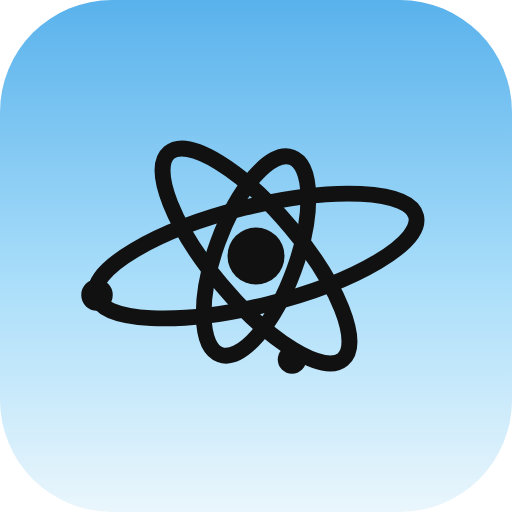
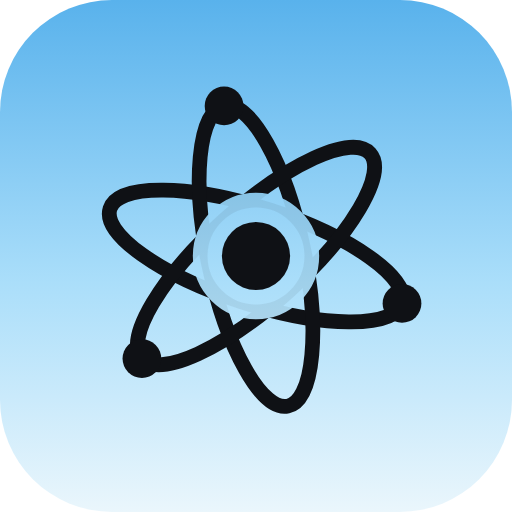
Round 6: white tag-patterned boards, new atom mark with blue breathing glow, sleeker Universal mark, folder design in Brainly, pinboard reminders, centered Timely headers
Claude-Session: https://claude.ai/code/session_01VyUsYKRK97fG4vrZNmknrH

Changed region(s): [[0.1562, 0.1562, 0.8438, 0.8125]]

diff --git a/styles.css b/styles.css
@@ -2245,3 +2245,164 @@ body.board-live, body.board-live * { cursor: grabbing !important; }
   .month-cell .span-bar { height: 5px; font-size: 0; padding: 0; }
   .week-cell .cell-n { font-size: 13px; }
 }
+
+/* ---------- Floating buttons, round 6 ---------- */
+/* Assistant: a frosted orb with a soft blue glow that breathes */
+.assistant-token {
+  background: radial-gradient(circle at 34% 28%, #ffffff 0%, #f5f8fd 55%, #e8eef8 100%);
+  box-shadow: inset 0 1px 1px #fff, inset 0 -8px 14px rgba(40, 80, 160, 0.08), 0 0 0 1px rgba(90, 140, 230, 0.28), 0 10px 24px -12px rgba(40, 80, 180, 0.55);
+}
+.assistant-token::before {
+  inset: -6px; background: radial-gradient(circle, rgba(70, 140, 255, 0.55) 0%, rgba(70, 140, 255, 0.18) 52%, transparent 72%);
+  filter: blur(4px); opacity: 0.75; animation: orbBreathe 4.2s ease-in-out infinite;
+}
+.assistant-token::after { display: none; }
+.assistant-token:hover::before { opacity: 1; }
+.assistant-token:hover { box-shadow: inset 0 1px 1px #fff, inset 0 -8px 14px rgba(40, 80, 160, 0.08), 0 0 0 1px rgba(90, 140, 230, 0.45), 0 14px 30px -12px rgba(40, 90, 220, 0.7); }
+.assistant-token[aria-expanded="true"] { background: radial-gradient(circle at 34% 28%, #2b3550 0%, #121828 60%, #090c14 100%); color: #fff; box-shadow: inset 0 1px 1px rgba(255, 255, 255, 0.15), 0 0 0 1px rgba(110, 160, 255, 0.5), 0 12px 28px -10px rgba(40, 90, 220, 0.8); }
+.assistant-token[aria-expanded="true"]::before { opacity: 1; animation-duration: 2.6s; }
+.assistant-tray.listening ~ .assistant-token::before { animation-duration: 1.4s; opacity: 1; }
+@keyframes orbBreathe { 0%, 100% { transform: scale(0.92); opacity: 0.55; } 50% { transform: scale(1.12); opacity: 0.95; } }
+.assistant-token svg { width: 28px; height: 28px; }
+@media (prefers-reduced-motion: reduce) { .assistant-token::before { animation: none; } }
+/* Universal Board: the swoosh draws a soft light, the star twinkles on hover */
+.universal-trigger svg { width: 25px; height: 25px; filter: drop-shadow(0 0 3px rgba(150, 175, 255, 0.65)); }
+.universal-trigger .uni-star { transform-origin: 19.6px 4.2px; transform-box: view-box; transition: transform 0.4s cubic-bezier(.34, 1.56, .64, 1); }
+.universal-trigger:hover .uni-star, .universal.open .uni-star { transform: scale(1.35) rotate(45deg); }
+.universal-trigger .uni-swoosh { transition: transform 0.4s var(--ease); transform-origin: 12px 12px; transform-box: view-box; }
+.universal-trigger:hover .uni-swoosh { transform: translate(0.6px, -0.6px); }
+.galaxy-arms { animation: none !important; }
+/* The brand atom turns gently on hover */
+.atom-mark { transform-origin: 50% 50%; }
+.assistant-token { background: transparent; }
+.assistant-token::after {
+  display: block; content: ""; position: absolute; inset: 0; border-radius: 50%; z-index: -1;
+  background: radial-gradient(circle at 34% 28%, #ffffff 0%, #f6f9fd 55%, #e9eff8 100%);
+  box-shadow: inset 0 1px 1px #fff, inset 0 -8px 14px rgba(40, 80, 160, 0.08);
+}
+.assistant-token[aria-expanded="true"] { background: transparent; }
+.assistant-token[aria-expanded="true"]::after { background: radial-gradient(circle at 34% 28%, #2b3550 0%, #121828 60%, #090c14 100%); box-shadow: inset 0 1px 1px rgba(255, 255, 255, 0.15); }
+
+/* ---------- Boardly, round 6: white boards, the pattern carries the category colour ---------- */
+.boardly .board-canvas {
+  background-color: #ffffff; border: 1.5px solid color-mix(in srgb, var(--tc) 45%, #e6e8ec);
+  background-image:
+    radial-gradient(circle, color-mix(in srgb, var(--tc) 78%, white) 1.5px, transparent 2px),
+    radial-gradient(90% 75% at 0% 0%, color-mix(in srgb, var(--tc) 12%, transparent), transparent 62%),
+    radial-gradient(70% 60% at 100% 100%, color-mix(in srgb, var(--tc) 8%, transparent), transparent 65%);
+  background-size: 26px 26px, 100% 100%, 100% 100%;
+  background-position: 13px 13px, 0 0, 0 0;
+  box-shadow: 0 1px 0 rgba(255, 255, 255, 0.8) inset, 0 18px 40px -30px color-mix(in srgb, var(--tc) 70%, black);
+}
+.boardly .tile { border: 1px solid color-mix(in srgb, var(--ink) 12%, transparent); box-shadow: 0 1px 2px rgba(17, 17, 17, 0.06), 0 10px 22px -12px color-mix(in srgb, var(--tc) 55%, rgba(17, 17, 17, 0.5)); }
+.boardly .canvas-empty, .boardly .sel-hint { color: var(--muted); }
+.boardly .vtools { background: rgba(255, 255, 255, 0.96); box-shadow: 0 0 0 1px var(--line), 0 18px 36px -14px rgba(17, 17, 17, 0.35); }
+.boardly .vt-head { color: var(--faint); }
+.boardly .vt-label { color: var(--ink-2); }
+.boardly .vtool:hover, .boardly .vtool:focus-visible { background: var(--well); }
+/* Tags: the active one wears its board's colour */
+.boardly-tabs .tab.active { background: color-mix(in srgb, var(--tab-color) 16%, white); color: var(--ink); box-shadow: inset 0 0 0 1.5px var(--tab-color); }
+.boardly-tabs .tab.active .tab-dot { box-shadow: 0 0 0 3px color-mix(in srgb, var(--tab-color) 30%, transparent); }
+.boardly-tabs .tab.active .tab-x { color: var(--muted); }
+
+/* ---------- Timely, round 6: the date title is centred over its calendar ---------- */
+.cal-head { display: grid; grid-template-columns: 1fr auto 1fr; align-items: center; gap: 12px; }
+.cal-head .cal-title { grid-column: 2; grid-row: 1; flex-direction: column; align-items: center; gap: 0; text-align: center; }
+.cal-head .cal-title h2 { font-size: 20px; }
+.cal-head .cal-sub { font-size: 12px; }
+.cal-head .cal-nav { display: contents; }
+.cal-head .cal-arrow[aria-label="Previous"] { grid-column: 1; grid-row: 1; justify-self: end; }
+.cal-head .cal-arrow[aria-label="Next"] { grid-column: 3; grid-row: 1; justify-self: start; }
+.cal-head .cal-today { grid-column: 3; grid-row: 1; justify-self: end; }
+@media (max-width: 700px) {
+  .cal-head { grid-template-columns: auto 1fr auto; }
+  .cal-head .cal-title { flex: none; }
+  .cal-head .cal-arrow[aria-label="Previous"] { grid-column: 1; justify-self: start; }
+  .cal-head .cal-arrow[aria-label="Next"] { grid-column: 3; justify-self: end; }
+  .cal-head .cal-today { grid-column: 2; grid-row: 2; justify-self: center; }
+}
+
+/* ---------- Reminders, round 6: a real pinboard, in the same frame as the other views ---------- */
+.reminders .cork {
+  border: 1.5px solid var(--ink); border-radius: 20px; padding: 22px; gap: 22px 26px;
+  background-color: #d9b98f;
+  background-image:
+    radial-gradient(rgba(110, 70, 30, 0.22) 1px, transparent 1.5px),
+    radial-gradient(rgba(255, 245, 225, 0.35) 1px, transparent 1.6px),
+    radial-gradient(120% 90% at 20% 0%, rgba(255, 240, 215, 0.45), transparent 60%),
+    radial-gradient(90% 80% at 100% 100%, rgba(90, 55, 20, 0.18), transparent 60%);
+  background-size: 7px 7px, 11px 11px, 100% 100%, 100% 100%;
+  background-position: 0 0, 3px 5px, 0 0, 0 0;
+  box-shadow: inset 0 0 0 6px #fff, inset 0 0 0 7px rgba(17, 17, 17, 0.12), inset 0 10px 30px rgba(80, 45, 10, 0.18), 3px 3px 0 color-mix(in srgb, var(--timely) 55%, white);
+}
+.reminders .cork.drop-over { box-shadow: inset 0 0 0 6px #fff, inset 0 0 0 8px var(--timely), inset 0 10px 30px rgba(80, 45, 10, 0.18); }
+/* Lane labels: a strip of paper tape */
+.reminders .lane-tag {
+  width: auto; align-self: flex-start; border: 0; border-radius: 2px; padding: 4px 10px; transform: rotate(-1.5deg);
+  background: rgba(255, 252, 240, 0.86); color: #5b4a33; box-shadow: 0 2px 4px -2px rgba(60, 35, 10, 0.4); font-size: 11px; letter-spacing: 0.08em;
+}
+.reminders .lane-overdue .lane-tag { background: #ffe1db; color: #a1281b; }
+.reminders .lane-routines .lane-tag { background: #e3effa; color: #1f4e79; }
+.reminders .lane-n { background: rgba(0, 0, 0, 0.08); color: inherit; }
+/* Notes: paper squares with a pushpin, a little tilt, a soft lift */
+.reminders .sticky {
+  --tilt: 0deg; transform: rotate(var(--tilt)); border: 0; border-radius: 2px 2px 12px 2px; padding: 24px 14px 34px; min-height: 118px; color: #2b2a26;
+  background: var(--sticky); box-shadow: 0 1px 1px rgba(60, 35, 10, 0.15), 0 14px 18px -12px rgba(60, 35, 10, 0.55);
+}
+.reminders .sticky:hover { transform: rotate(0deg) translateY(-2px) scale(1.02); box-shadow: 0 2px 2px rgba(60, 35, 10, 0.15), 0 22px 26px -14px rgba(60, 35, 10, 0.6); }
+.reminders .sticky.overdue { box-shadow: 0 0 0 2px rgba(200, 50, 40, 0.55), 0 14px 18px -12px rgba(60, 35, 10, 0.55); }
+.reminders .sticky-pin {
+  display: block; position: absolute; top: 7px; left: 50%; width: 14px; height: 14px; margin-left: -7px; border-radius: 50%; z-index: 2;
+  background: radial-gradient(circle at 35% 30%, #ff9a8f 0%, #e0352a 45%, #9e1a12 100%);
+  box-shadow: 0 2px 2px rgba(0, 0, 0, 0.35), 1px 4px 4px -1px rgba(0, 0, 0, 0.25);
+}
+.reminders .sticky-pin::after { content: ""; position: absolute; left: 4px; top: 3px; width: 4px; height: 3px; border-radius: 50%; background: rgba(255, 255, 255, 0.7); }
+.reminders .composer {
+  --sticky: #fffdf6; border: 0; border-radius: 3px 3px 14px 3px; padding: 24px 14px 12px; transform: none; width: 340px;
+  box-shadow: 0 1px 1px rgba(60, 35, 10, 0.15), 0 16px 22px -12px rgba(60, 35, 10, 0.55);
+}
+.reminders .composer .sticky-pin { background: radial-gradient(circle at 35% 30%, #9cc4ff 0%, #2f6fd6 45%, #173f86 100%); }
+/* Pinning: the note drops onto the board, the pin is pushed in, the paper settles */
+.reminders .sticky.pin-drop { animation: pinNote 0.7s cubic-bezier(.2, .9, .3, 1.15); }
+.reminders .sticky.pin-drop .sticky-pin { animation: pinPush 0.55s 0.3s cubic-bezier(.3, 1.6, .5, 1) both; }
+.reminders .sticky.pin-drop::after {
+  display: block; content: ""; position: absolute; top: 14px; left: 50%; width: 12px; height: 12px; margin: -6px 0 0 -6px; border-radius: 50%;
+  border: 2px solid rgba(224, 53, 42, 0.55); animation: pinRing 0.6s 0.42s ease-out both; pointer-events: none;
+}
+@keyframes pinNote {
+  0% { transform: translateY(-60px) rotate(-10deg) scale(1.1); opacity: 0; box-shadow: 0 40px 40px -16px rgba(60, 35, 10, 0.35); }
+  50% { transform: translateY(4px) rotate(var(--tilt)) scale(0.98); opacity: 1; }
+  70% { transform: translateY(-2px) rotate(var(--tilt)); }
+  100% { transform: rotate(var(--tilt)); }
+}
+@keyframes pinPush {
+  0% { transform: translateY(-18px) scale(1.7); box-shadow: 0 12px 10px rgba(0, 0, 0, 0.25); opacity: 0; }
+  60% { transform: translateY(1px) scale(0.85); opacity: 1; }
+  100% { transform: none; }
+}
+.composer.pinning .sticky-pin { animation: pinPress 0.25s ease; }
+@keyframes pinPress { 50% { transform: scale(0.8); } }
+.reminders .pad-pin { background: #0f1115; color: #fff; }
+
+/* ---------- Brainly, round 6: folders read as folders ---------- */
+/* Column squares get a folder tab and a tint, so they never look like a link or a PDF */
+.lf-tile { margin-top: 8px; border-top-left-radius: 6px; background: linear-gradient(180deg, color-mix(in srgb, var(--fc) 14%, white), #fff 46%); border-color: color-mix(in srgb, var(--fc) 40%, var(--line)); }
+.lf-tile::before { content: ""; position: absolute; top: -8px; left: -1px; width: 46%; height: 12px; border-radius: 8px 8px 0 0; background: color-mix(in srgb, var(--fc) 30%, white); border: 1px solid color-mix(in srgb, var(--fc) 40%, var(--line)); border-bottom: 0; }
+.lf-tile .lf-emoji { background: color-mix(in srgb, var(--fc) 18%, white); }
+/* Glass view: a Folders row and a Links & files row */
+.glass-scroll { position: relative; overflow-y: auto; display: flex; flex-direction: column; gap: 6px; min-height: 120px; }
+.glass-scroll > .glass-section > .glass-grid { overflow: visible; min-height: 0; }
+.glass-section { display: flex; flex-direction: column; gap: 2px; }
+.glass-section + .glass-section { border-top: 1px solid rgba(255, 255, 255, 0.7); padding-top: 6px; }
+.glass-section-label { display: inline-flex; align-items: center; gap: 6px; font-size: 11.5px; font-weight: 700; letter-spacing: 0.04em; text-transform: uppercase; color: var(--ink-2); opacity: 0.7; padding: 0 8px; }
+.glass-section-label svg { width: 13px; height: 13px; }
+.glass-folders { padding-bottom: 6px; }
+.folder-shape {
+  position: relative; width: 66px; height: 52px; margin-top: 8px; border-radius: 6px 12px 12px 12px; display: grid; place-items: center;
+  background: linear-gradient(180deg, color-mix(in srgb, var(--fc) 70%, white), var(--fc));
+  box-shadow: inset 0 1px 0 rgba(255, 255, 255, 0.55), 0 10px 18px -10px color-mix(in srgb, var(--fc) 80%, black);
+}
+.folder-shape::before { content: ""; position: absolute; top: -7px; left: 0; width: 30px; height: 10px; border-radius: 6px 8px 0 0; background: color-mix(in srgb, var(--fc) 80%, white); }
+.folder-emoji { font-size: 22px; filter: drop-shadow(0 1px 1px rgba(0, 0, 0, 0.15)); }
+.folder-badge { position: absolute; right: -6px; top: -10px; min-width: 20px; height: 20px; padding: 0 5px; border-radius: 999px; display: grid; place-items: center; font-size: 11px; font-weight: 700; color: #fff; background: #0f1115; box-shadow: 0 0 0 2px rgba(255, 255, 255, 0.9); }
+.glass-sub:hover .folder-shape { transform: translateY(-1px); }

diff --git a/js/brainly.js b/js/brainly.js
@@ -182,13 +182,15 @@ const lfMatches = (f, q) => !q || f.name.toLowerCase().includes(q) || links(f.id
 const lfEmoji = f => f.emoji || mostCommonEmoji(links(f.id).map(c => `${c.meta?.url || ''} ${c.title}`), '🔗');
 const lfCount = f => { const n = links(f.id).length, k = lfChildren(f.id).length; return [n ? `${n} item${n === 1 ? '' : 's'}` : '', k ? `${k} folder${k === 1 ? '' : 's'}` : ''].filter(Boolean).join(' · ') || 'Empty'; };
 
+const FOLDER_TINTS = ['#7FA7D9', '#86AE95', '#C9A46E', '#A796CB', '#C98E8E', '#7FAEBE'];
+const folderTint = f => f.color || FOLDER_TINTS[hashStr(f.id) % FOLDER_TINTS.length];
 function linkFolderEl(f) {
   const all = links(f.id);
   const subs = lfChildren(f.id);
   const name = h('span', { class: 'lf-name', title: 'Double-click to rename' }, f.name);
   name.addEventListener('dblclick', e => { e.stopPropagation(); editInline(name, { onCommit: v => saveLinkFolder(f.id, { name: v }) }); });
   const tile = h('section', {
-    class: 'lf-tile', tabindex: 0, role: 'button', 'aria-label': `${f.name}, ${lfCount(f)}. Open folder`,
+    class: 'lf-tile', tabindex: 0, role: 'button', 'aria-label': `${f.name}, ${lfCount(f)}. Open folder`, style: { '--fc': folderTint(f) },
     dataset: { drag: 'lfolder', id: f.id, lfolder: f.id, drop: 'lf-into', accept: 'card lfolder', into: f.id },
   },
   h('button', { class: 'lf-emoji', 'aria-label': 'Change folder emoji', title: 'Change emoji', onclick: e => { e.stopPropagation(); pickEmoji(e.currentTarget, v => saveLinkFolder(f.id, { emoji: v })); } }, lfEmoji(f)),
@@ -222,16 +224,19 @@ function openLinkFolder(fid, fromEl) {
     title.addEventListener('keydown', e => { e.stopPropagation(); if (e.key === 'Enter') title.blur(); if (e.key === 'Escape') { title.value = f.name; title.blur(); } });
     title.addEventListener('change', () => { const v = title.value.trim(); if (v && v !== f.name) saveLinkFolder(f.id, { name: v }); });
     const subs = lfChildren(f.id), items = links(f.id);
-    const grid = h('div', { class: 'glass-grid', dataset: { drop: 'link-list', accept: 'card', lfolder: f.id }, 'data-list': '' },
-      subs.map(x => {
-        const peek = links(x.id).slice(0, 4);
-        const t = h('div', { class: 'glass-item glass-sub', tabindex: 0, dataset: { drag: 'lfolder', id: x.id, drop: 'lf-into', accept: 'card lfolder', into: x.id } },
-          h('span', { class: 'glass-icon glass-mini' }, peek.length ? peek.map(c => h('i', {}, favicon(c))) : h('b', {}, lfEmoji(x))),
+    // Folders and files sit in their own labelled rows, and folders look like folders (tab, colour, count).
+    const folderRow = subs.length ? h('div', { class: 'glass-section' },
+      h('span', { class: 'glass-section-label' }, icon('folder'), `Folders · ${subs.length}`),
+      h('div', { class: 'glass-grid glass-folders' }, subs.map(x => {
+        const n = links(x.id).length + lfChildren(x.id).length;
+        const t = h('div', { class: 'glass-item glass-sub', tabindex: 0, title: `${x.name}: ${lfCount(x)}`, dataset: { drag: 'lfolder', id: x.id, drop: 'lf-into', accept: 'card lfolder', into: x.id } },
+          h('span', { class: 'folder-shape', style: { '--fc': folderTint(x) } }, h('span', { class: 'folder-emoji' }, lfEmoji(x)), n ? h('span', { class: 'folder-badge' }, n) : null),
           h('span', { class: 'glass-label' }, x.name));
         t.addEventListener('click', () => { glass.fid = x.id; paint(); });
         t.addEventListener('keydown', e => { if (e.key === 'Enter') { glass.fid = x.id; paint(); } });
         return t;
-      }),
+      }))) : null;
+    const grid = h('div', { class: 'glass-grid', dataset: { drop: 'link-list', accept: 'card', lfolder: f.id }, 'data-list': '' },
       items.map(c => {
         const t = h('div', { class: 'glass-item', tabindex: 0, dataset: { drag: 'card', id: c.id }, title: c.meta?.url || c.title },
           h('span', { class: 'glass-icon' }, favicon(c)), h('span', { class: 'glass-label' }, c.title));
@@ -239,14 +244,15 @@ function openLinkFolder(fid, fromEl) {
         t.addEventListener('keydown', e => { if (e.key === 'Enter') previewItem(t, c.id); });
         return t;
       }));
-    if (!subs.length && !items.length) grid.append(h('p', { class: 'glass-empty' }, 'Empty. Drop links or files here, upload something, or make a folder inside.'));
+    if (!items.length) grid.append(h('p', { class: 'glass-empty' }, subs.length ? 'No links or files here yet. Drop some in, or upload.' : 'Empty. Drop links or files here, upload something, or make a folder inside.'));
+    const fileRow = h('div', { class: 'glass-section glass-files' }, subs.length ? h('span', { class: 'glass-section-label' }, icon('link'), `Links & files · ${items.length}`) : null, grid);
     panel.replaceChildren(
       h('div', { class: 'glass-top' },
         parent ? h('button', { class: 'glass-back', type: 'button', onclick: () => { glass.fid = parent.id; paint(); } }, icon('chevL'), parent.name) : h('span'),
         h('button', { class: 'glass-close', type: 'button', 'aria-label': 'Close folder', onclick: () => closeGlass() }, icon('x'))),
       title,
       h('p', { class: 'glass-sub-line' }, `${lfCount(f)}${parent ? ` · in ${lfPath(parent)}` : ''}`),
-      grid,
+      h('div', { class: 'glass-scroll' }, folderRow, fileRow),
       h('div', { class: 'glass-actions' },
         h('button', { class: 'glass-btn', type: 'button', onclick: () => fileIn.click() }, icon('upload'), 'Upload'),
         h('button', { class: 'glass-btn', type: 'button', onclick: () => addLinkFolder(f.id) }, icon('folder'), 'New folder'),

diff --git a/js/util.js b/js/util.js
@@ -296,10 +296,10 @@ export function editInline(el, { multiline = false, onCommit, selectAll = true }
 // ---------- Icons (1.6px strokes, currentColor) ----------
 const S = (inner, vb = 24) => `<svg viewBox="0 0 ${vb} ${vb}" fill="none" stroke="currentColor" stroke-width="1.6" stroke-linecap="round" stroke-linejoin="round" aria-hidden="true">${inner}</svg>`;
 export const ICONS = {
-  // Atom: three loops of different lengths and angles around a solid nucleus, with two electrons.
-  atom: '<svg viewBox="0 0 24 24" fill="none" stroke="currentColor" stroke-width="1.15" stroke-linecap="round" aria-hidden="true" class="atom-mark"><ellipse cx="12" cy="12" rx="11" ry="3.3" transform="rotate(-14 12 12)"/><ellipse cx="12" cy="12" rx="9" ry="3" transform="rotate(50 12 12)"/><ellipse cx="12" cy="12" rx="7" ry="2.7" transform="rotate(110 12 12)"/><circle cx="12" cy="12" r="1.9" fill="currentColor" stroke="none"/><circle cx="1.4" cy="14.6" r="1.05" fill="currentColor" stroke="none"/><circle cx="14.4" cy="18.9" r=".95" fill="currentColor" stroke="none"/></svg>',
-  // Universal Board: a four-point star with an orbit passing behind it and a moon riding the orbit (it turns on hover).
-  galaxy: '<svg viewBox="0 0 24 24" fill="none" stroke="currentColor" stroke-width="1.2" stroke-linecap="round" aria-hidden="true"><defs><mask id="sedi-uni-mask"><rect width="24" height="24" fill="#fff"/><circle cx="12" cy="11.3" r="5.5" fill="#000"/></mask></defs><g mask="url(#sedi-uni-mask)"><g class="galaxy-arms"><ellipse cx="12" cy="12.4" rx="11" ry="3.4" transform="rotate(-20 12 12)"/><circle cx="22.3" cy="8.6" r="1.2" fill="currentColor" stroke="none"/></g></g><path d="M12 5.2c.55 3.7 2.4 5.55 6.1 6.1-3.7.55-5.55 2.4-6.1 6.1-.55-3.7-2.4-5.55-6.1-6.1 3.7-.55 5.55-2.4 6.1-6.1z" transform="translate(12 11.3) scale(1.25) translate(-12 -11.3)" fill="currentColor" stroke="none"/><circle cx="4.2" cy="5.4" r=".8" fill="currentColor" stroke="none"/></svg>',
+  // Atom: three fine orbits, tilted, with an electron at the tip of each and a clear gap around the nucleus.
+  atom: '<svg viewBox="0 0 24 24" fill="none" stroke="currentColor" stroke-width="1" aria-hidden="true" class="atom-mark"><defs><mask id="sedi-atom-m"><rect x="-2" y="-2" width="28" height="28" fill="#fff"/><circle cx="12" cy="12" r="3.6" fill="#000"/></mask></defs><g mask="url(#sedi-atom-m)"><ellipse cx="12" cy="12" rx="9.9" ry="3.1" transform="rotate(18 12 12)"/><ellipse cx="12" cy="12" rx="9.9" ry="3.1" transform="rotate(78 12 12)"/><ellipse cx="12" cy="12" rx="9.9" ry="3.1" transform="rotate(138 12 12)"/></g><circle cx="12" cy="12" r="2.2" fill="currentColor" stroke="none"/><circle cx="21.42" cy="15.06" r="1.25" fill="currentColor" stroke="none"/><circle cx="9.94" cy="2.32" r="1.25" fill="currentColor" stroke="none"/><circle cx="4.64" cy="18.62" r="1.25" fill="currentColor" stroke="none"/></svg>',
+  // Universal Board: one clean launch swoosh with a star at its tip.
+  galaxy: '<svg viewBox="0 0 24 24" fill="currentColor" aria-hidden="true"><path class="uni-swoosh" d="M2.2 17.4C7.6 9.6 14.4 5.6 22.2 4.6c-6.9 2.2-12.6 6.6-16.7 13.3-1.3.4-2.4.3-3.3-.5z"/><path class="uni-star" d="M19.6 2.2l.5 1.6 1.6.5-1.6.5-.5 1.6-.5-1.6-1.6-.5 1.6-.5z"/></svg>',
   flag: S('<path d="M6 20.5V4.5"/><path d="M6 5h11l-2.5 4L17 13H6"/>'),
   arrowR: S('<path d="M5 12h12M13 7.5 17.5 12 13 16.5"/>'),
   sparkle: S('<path d="M12 4v4M12 16v4M4 12h4M16 12h4M7 7l2 2M15 15l2 2M7 17l2-2M15 9l2-2"/>'),

diff --git a/sw.js b/sw.js
@@ -1,7 +1,7 @@
 // Sedi service worker: caches the app shell so Sedi opens instantly and works fully offline.
 // Bump VERSION whenever app files change so browsers pick up the new build.
 
-const VERSION = 'sedi-v1.6.0';
+const VERSION = 'sedi-v1.7.0';
 const SHELL = [
   './', './index.html', './styles.css', './app.js', './manifest.webmanifest', './icon.svg', './icon-192.png', './icon-512.png',
   './brain/master_library.json',
